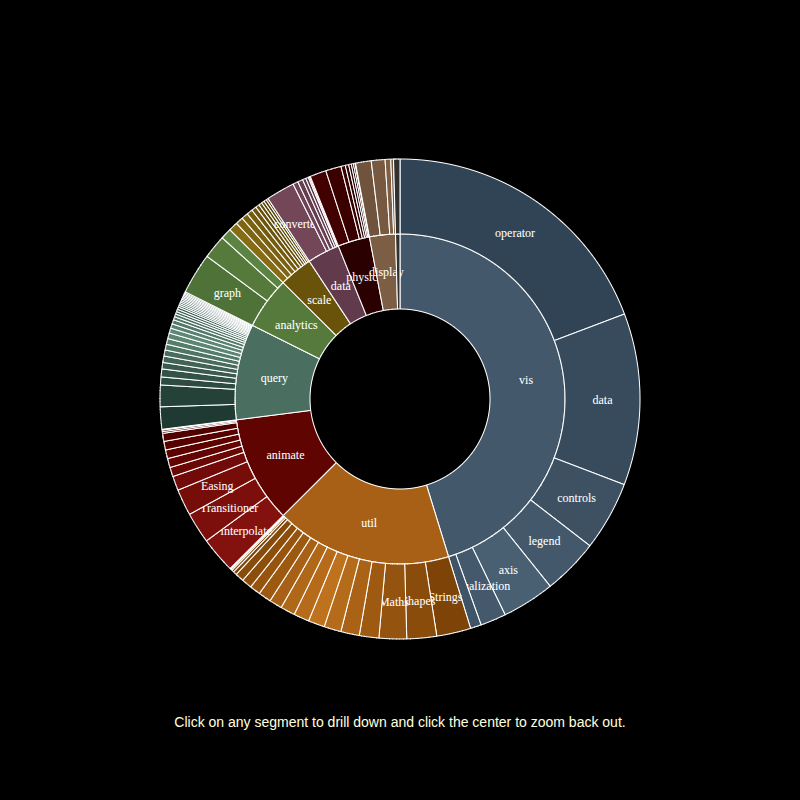
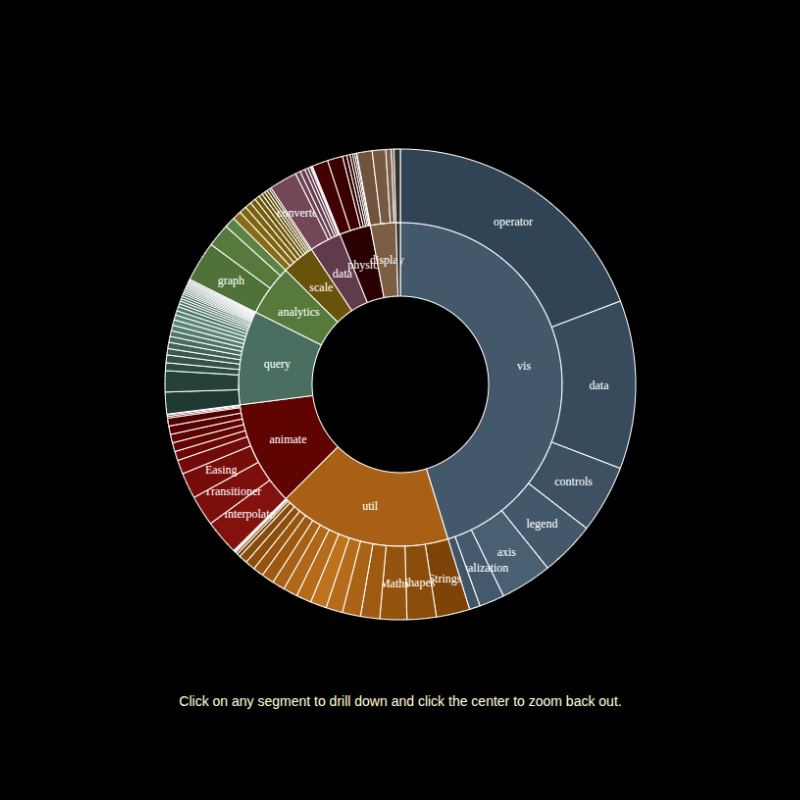
Add data visualization thumbnails and update section title

diff --git a/index.html b/index.html
@@ -380,7 +380,7 @@
           <h3 class="subsection-title">Mini Games</h3>
           <div class="thumbnails">
             <div class="thumbnail">
-              <p class="thumbnail-title">Space Invaders</p>
+              <p class="thumbnail-title">Invaders</p>
               <a href="/games/space_invaders_game.html" target="_blank">
                 <img src="./img/game_space_invaders.png" alt="Space Invaders" />
               </a>
@@ -458,9 +458,47 @@
                 </a>
               </div>
             </div>
+
             <div class="subsection" id="data-visualization">
               <h3 class="subsection-title">Data Visualization</h3>
-              <p>Coming Soon</p>
+              <div class="thumbnails">
+                <div class="thumbnail">
+                  <p class="thumbnail-title">Chord</p>
+                  <a href="data/chord_diagram.html" target="_blank">
+                    <img src="./img/data_chord.png" alt="Chord" />
+                  </a>
+                </div>
+                <div class="thumbnail">
+                  <p class="thumbnail-title">Sunburst</p>
+                  <a href="data/zoomable_sunburst_chart.html" target="_blank">
+                    <img src="./img/data_sunburst.png" alt="Sunburst" />
+                  </a>
+                </div>
+                <div class="thumbnail">
+                  <p class="thumbnail-title">Circle</p>
+                  <a href="data/circle_packing.html" target="_blank">
+                    <img src="./img/data_circle.png" alt="Circle" />
+                  </a>
+                </div>
+                <div class="thumbnail">
+                  <p class="thumbnail-title">Gantt</p>
+                  <a href="data/gantt_chart.html" target="_blank">
+                    <img src="./img/data_gantt.png" alt="Gantt" />
+                  </a>
+                </div>
+                <div class="thumbnail">
+                  <p class="thumbnail-title">Heatmap</p>
+                  <a href="data/heatmap_table.html" target="_blank">
+                    <img src="./img/data_heatmap.png" alt="Heatmap" />
+                  </a>
+                </div>
+                <div class="thumbnail">
+                  <p class="thumbnail-title">Bump</p>
+                  <a href="data/bump_chart.html" target="_blank">
+                    <img src="./img/data_bump.png" alt="Bump" />
+                  </a>
+                </div>
+              </div>
             </div>
 
           </div>
